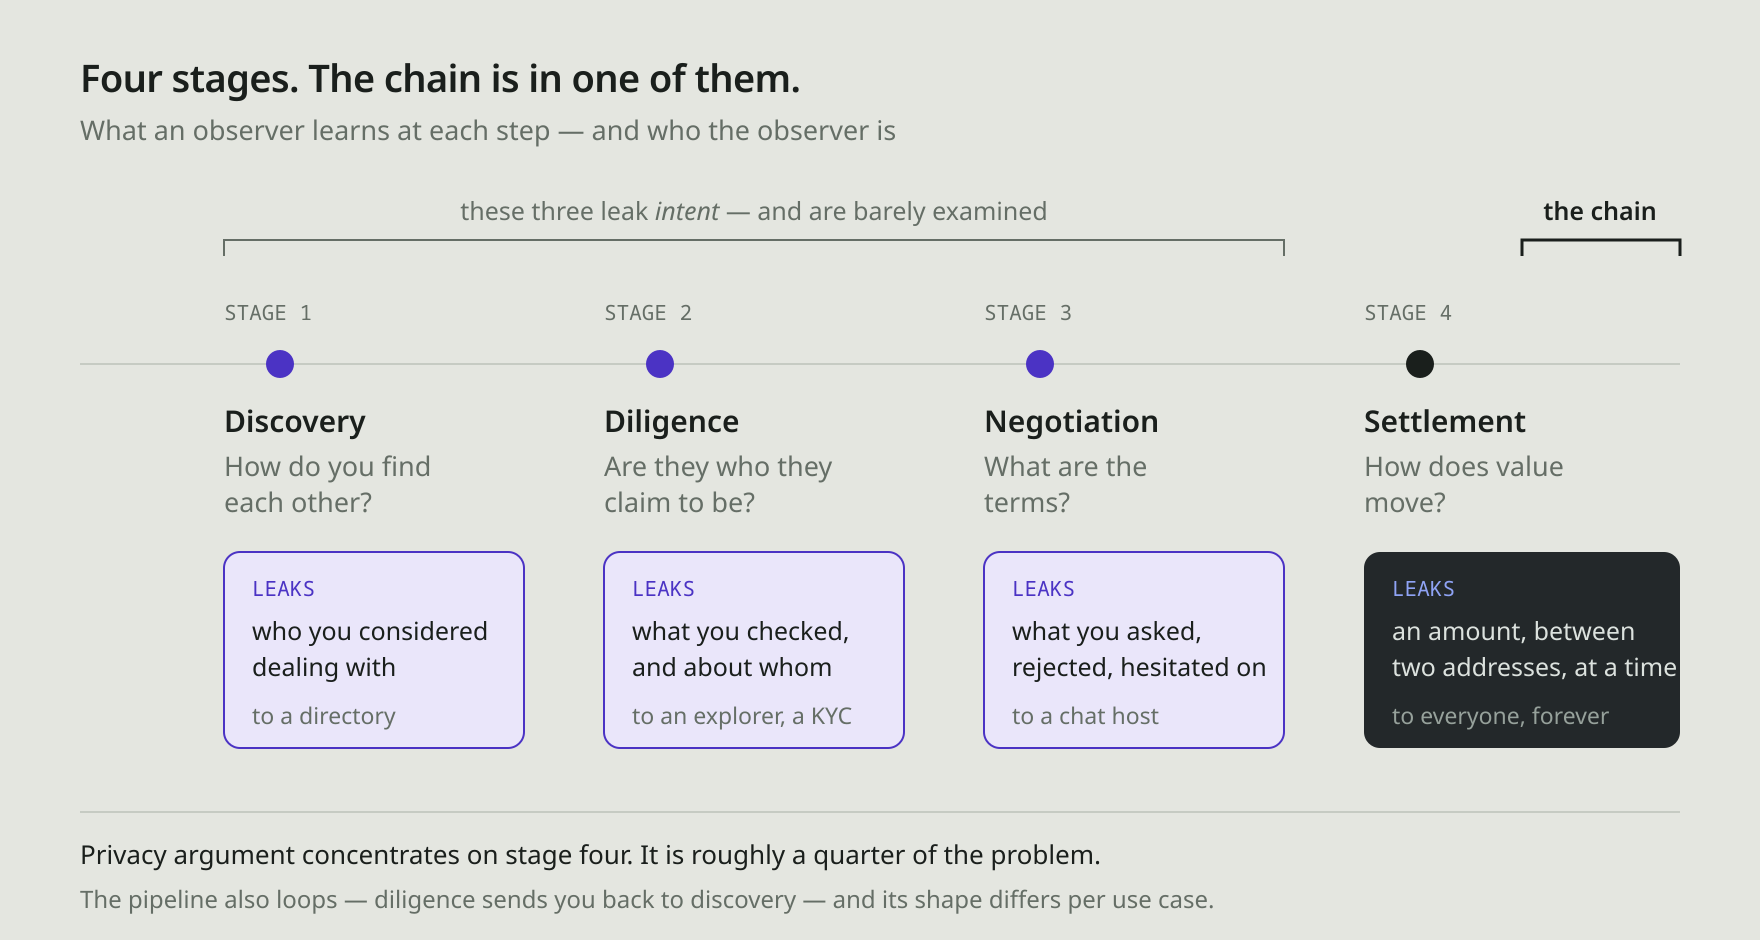
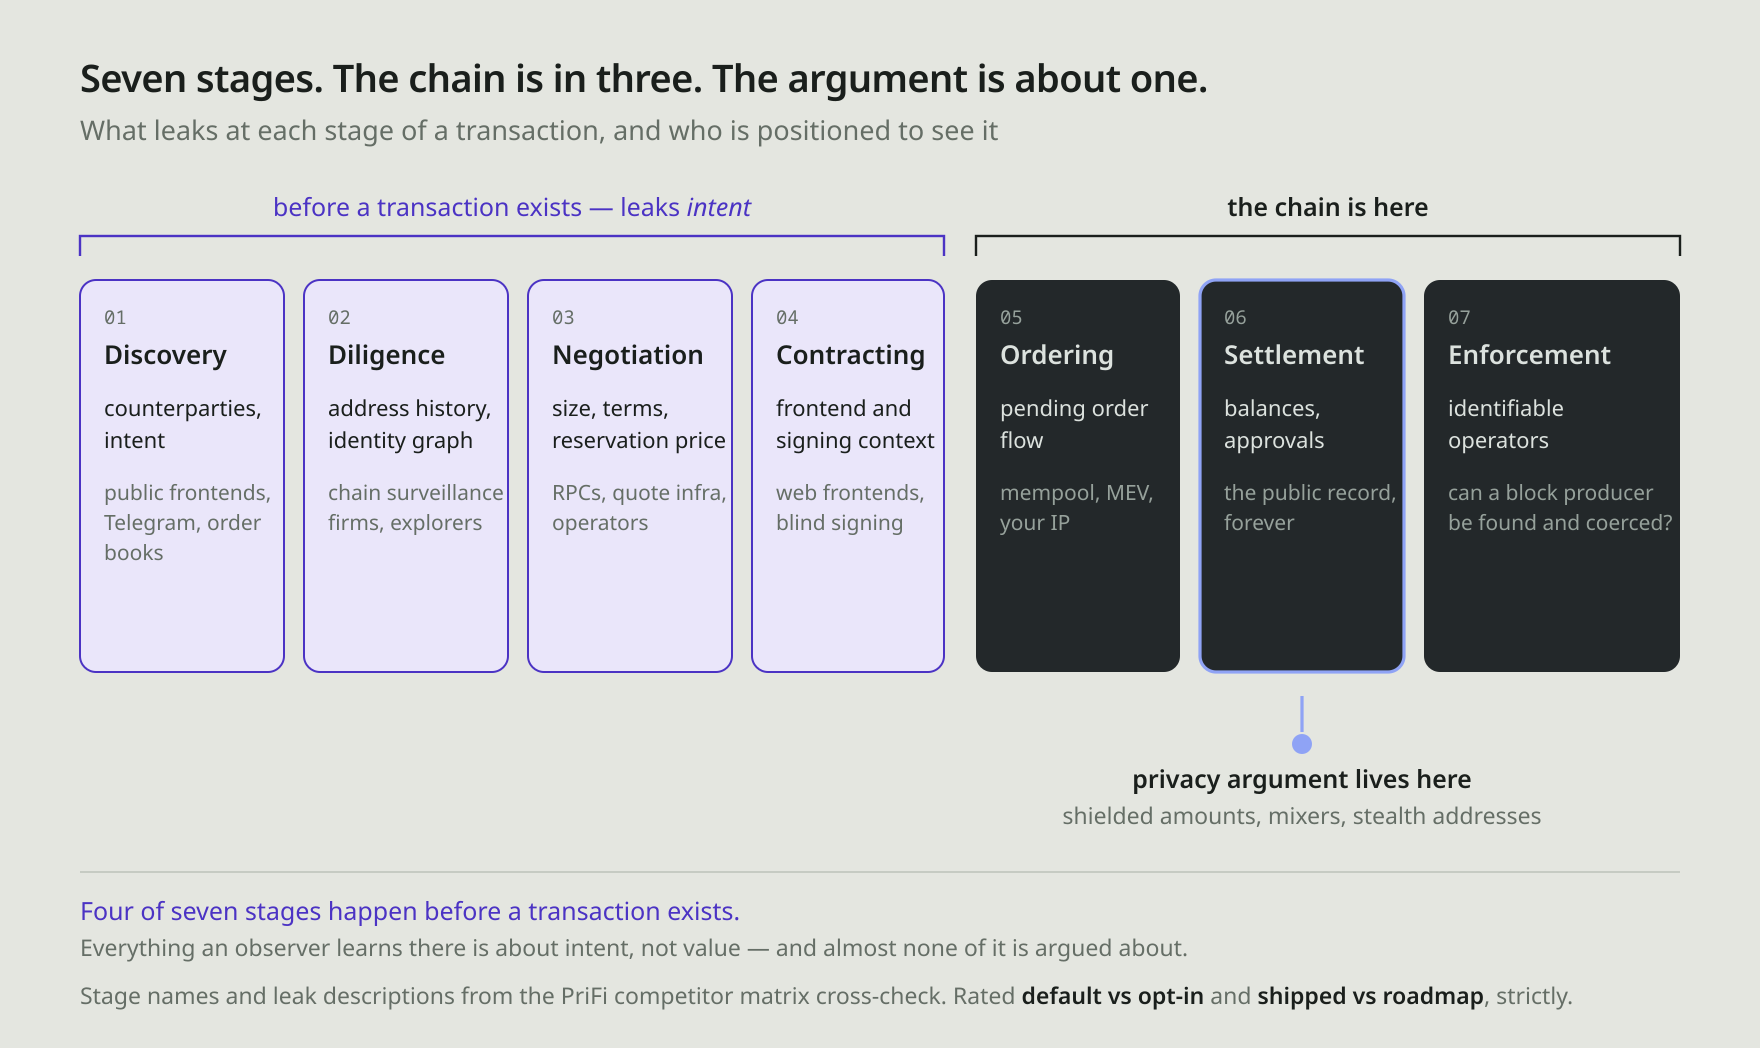
Adopt the published seven-stage pipeline, and score ourselves on it
The four-stage framing (discovery / diligence / negotiation / settlement) was
mine to invent and did not need inventing — the seven-stage version is already
published in the PriFi competitor matrix cross-check, with a leak description
per stage and a scoring scale. A post that introduced a second taxonomy for
the same thing would be worse than useless.

Stages now: Discovery, Diligence, Negotiation, Contracting, Ordering,
Settlement, Enforcement, with the leak descriptions quoted verbatim and the
three unfamiliar ones defined.

The correction makes the thesis stronger rather than weaker. "The blockchain
touches stage four, that's it" was wrong: the chain is present in three stages
— ordering, settlement, enforcement. But privacy argument concentrates on
roughly *one* of them, settlement. Ordering gets partial attention and is
usually framed as an economic problem; enforcement gets almost none despite
deciding whether anyone can be compelled. So the claim becomes: the argument
covers about one stage in seven, and it is not the one that leaks most about
you. Four of seven happen before a transaction exists at all.

  fig1  rebuilt for seven stages, splitting the four that precede a
        transaction from the three the chain is in, and marking the one the
        argument actually lives in
  fig5  new — Muster scored on that same matrix

The self-assessment is the part that needs a second opinion before it goes
[…]

diff --git a/docs/posts/01-discovery-supporting-material.md b/docs/posts/01-discovery-supporting-material.md
@@ -14,35 +14,90 @@ Rule inherited from `docs/00-vision.md`: never publish an `inferred` row as fact
 
 ---
 
-## 1. The thesis, as separable claims
+## 1. The pipeline — use the seven-stage version
 
-Stated so each can be attacked on its own.
+**This supersedes the four-stage framing (discovery / diligence / negotiation / settlement) in the earlier draft.** The seven-stage version is already published in the PriFi competitor matrix cross-check, so the post should be consistent with it rather than inventing a second taxonomy.
+
+Stage names and leak descriptions, verbatim from that document:
+
+| Stage | Leak being rated |
+|---|---|
+| **Discovery** | counterparties, intent: is there private counterparty/liquidity discovery, or Telegram/public frontends? |
+| **Diligence** | address history, identity graph: can surveillance firms graph the chain? |
+| **Negotiation** | size, terms, reservation price: pre-trade leakage to RPCs, quote infra, operators |
+| **Contracting** | frontend and signing context: verifiable/local-first frontends, signing leaks |
+| **Ordering** | pending order flow: mempool visibility, MEV, network-origin (IP) protection |
+| **Settlement** | balances, approvals, positions: on-chain privacy, default vs opt-in |
+| **Enforcement** | identifiable operators: can block producers be identified and coerced? |
+
+Definitions worth restating in the post, because three of these are unfamiliar:
+
+- **Contracting** — whether signing and execution context stays local and verifiable, or a web frontend introduces ambient leakage.
+- **Ordering** — whether mempool contents, timing and MEV surface to validators, miners or network observers *before* confirmation.
+- **Enforcement** — whether block producers are anonymous (censorship-resistant) or identifiable (coercible). Anonymous randomised selection is the standard; a permissioned sequencer set is not.
+
+**Source:** <https://logos-co.github.io/assembly/resources/prifi-deck-competitor-matrix-crosscheck>
+
+### What the extra stages do to the thesis
+
+The four-stage version said *"the blockchain touches stage four, that's it."* Under seven stages that is wrong, and the corrected version is **stronger**:
+
+- The chain is involved in **three** stages — Ordering, Settlement, Enforcement.
+- Privacy discourse concentrates on **one** of them: Settlement. Shielded amounts, mixers, stealth addresses.
+- **Ordering** gets partial attention (MEV, private mempools) and is mostly framed as an economic problem rather than a privacy one.
+- **Enforcement** gets almost none, despite deciding whether anyone *can* be compelled.
+- **Discovery, Diligence, Negotiation and Contracting** — four of seven, everything before a transaction exists — leak intent and are barely examined at all.
+
+So: not "one of four" but **"privacy argument covers roughly one stage in seven, and it isn't the one that leaks the most about you."**
+
+### Claims, so each can be attacked separately
 
 | # | Claim | Support |
 |---|---|---|
-| T1 | Every inter-personal transaction moves through discovery → diligence → negotiation → settlement | Framing. Not empirical — §10 Q1 invites it being broken |
-| T2 | The blockchain touches only stage four | Definitional, and the reason the framing earns its place |
-| T3 | Stages 1–3 leak *intent*, to more parties than stage 4 leaks *value* | Argument, illustrated by the discovery case below |
-| T4 | Those three stages run on infrastructure that keeps records, largely unexamined | Argument |
+| T1 | An inter-personal transaction moves through these seven stages | Framing, published. §10 Q1 invites it being broken |
+| T2 | The chain is present in only three of them, and privacy discourse in about one | Definitional plus observation |
+| T3 | Stages 1–4 leak *intent*, to more parties than stage 6 leaks *value* | Argument, illustrated by the discovery case below |
+| T4 | The operators in the middle — RPCs, quote infra, frontends, sequencers — are the least examined and often the most sighted | The matrix's own central finding |
 | T5 | Leaks divide into: chosen by you, chosen by the stack for you, inherited by everyone | Framing, and the most reusable idea in the post |
 
-The sharpest form of T3: from settlement an observer learns *an amount moved between two addresses at a time*. From the other three they learn **who you considered dealing with, what you checked, what you asked for, what you settled on, what you rejected, and when you hesitated.**
-
----
-
-## 2. The pipeline, per stage
-
-| Stage | The question | Conventional infrastructure | What it retains |
-|---|---|---|---|
-| 1. Discovery | How do you find them? | Marketplace, directory, order book, platform handle | The search, the edge in a social graph |
-| 2. Diligence | Are they who they claim, with what they claim? | Profile, reputation score, KYC provider, explorer lookup | That you checked, and whom |
-| 3. Negotiation | What are the terms? | Chat, email, comments, forms | The whole thread, indefinitely, and compellably |
-| 4. Settlement | How does value move, and when is it final? | The chain | Amount, addresses, timestamp — permanently, publicly |
+The sharpest form of T3: from settlement an observer learns *an amount moved between two addresses at a time*. From the earlier stages they learn **who you considered dealing with, what you checked, what you asked for, what you settled on, what you rejected, and when you hesitated.**
 
 **Two caveats to state early, both true and both easy to omit:**
 
 - The pipeline **loops**. Diligence sends you back to discovery; negotiation surfaces a fact needing checking.
 - The pipeline is **not universal in shape**. Discovery for "send a friend £20" is a different problem from discovery on a DEX, an NFT purchase, or a hire. This is why the series retells it per use case.
+
+---
+
+## 2. The scoring scheme, and Muster scored by it
+
+The matrix rates each stage on three levels. Reusing it here rather than inventing a scale keeps the post consistent with the published work — and, more usefully, lets Muster be held to the standard its author is applying to everyone else.
+
+| Mark | Meaning |
+|---|---|
+| ● **Closed** | leak closed by default architecture |
+| ◑ **Partial** | partially mitigated or opt-in |
+| ○ **Leaks** | essentially unaddressed |
+
+The criterion the matrix applies, and the reason it is worth applying to ourselves: **default vs opt-in, and shipped vs roadmap, strictly — "because an adversarial investor will."**
+
+### Muster as it stands today — draft self-assessment
+
+**This is the most exposed thing in the post and needs your judgement before it goes anywhere.** It is scored strictly against the *demo as it runs*, not against the specification. Two cells are deliberately left unscored rather than guessed.
+
+| Stage | Mark | Why, strictly |
+|---|---|---|
+| Discovery | ◑ | No directory, no lookup, no server that learns the edge — that part is closed by architecture. But the introduction is unauthenticated, and a relay still sees subscription shape. **[measured]** |
+| Diligence | ○ | Not addressed at all. There is no diligence surface in the build; the next post is about what one could look like. Scoring this ● because "we don't do lookups" would be exactly the overclaim the matrix criticises |
+| Negotiation | ● | The strongest cell. Terms are agreed inside an end-to-end encrypted room with **no coordination service anywhere in it** — no RPC, no quote infra, no operator sees the proposal, the approvals or the timing. Closed by default, not opt-in **[measured]** |
+| Contracting | ◑ | Local-first by construction: a native client, no web frontend, no ambient leakage. But **the signing context is not verifiable** — the client does not re-derive what it signs (F-4/FS-6 are specified and unbuilt), so a user reviews an amount rather than a payload |
+| Ordering | *not assessed* | Needs the zone's own answer on mempool visibility and sequencer behaviour. What is known: no network-origin protection (no mixnet), and the zone learns that a transfer happened and when. Do not score this without checking |
+| Settlement | ◑ | Shielded on both ends by default, which is the ● case — but the **recipient is not credited at the address they published**, and the build carries a workaround. A stage that needs a workaround to complete is not closed |
+| Enforcement | *not assessed* | The testnet runs against a single named sequencer, which by the matrix's own standard ("anonymous randomised selection is the standard, not permissioned sequencer sets") points at ○ — but confirm the production model before printing it |
+
+**Why publish this.** The matrix's stated failure mode is "the same standard applied to one project and not its neighbour". A post that scores everyone else and exempts its own prototype would be the thing it is complaining about. Two ○/unscored cells and a ◑ on settlement is a more credible document than a row of ●.
+
+**The honest headline:** on its own matrix, this build closes **one** stage of seven by default. That is a defensible result for a two-week prototype whose thesis is that the middle of the pipeline is neglected — it closes the neglected middle and leaves the well-trodden end open.
 
 ---
 
@@ -157,7 +212,8 @@ Built and in `docs/posts/figures/`. Each is SVG, in the prototype's palette, siz
 
 | File | Shows | Best used for |
 |---|---|---|
-| `fig1-pipeline.svg` | The four stages, what each leaks, and the chain touching only the fourth | The thesis. Probably the post's opening figure |
+| `fig1-pipeline.svg` | All seven stages with their leak descriptions, the four that precede a transaction, the three the chain is in, and the one the argument concentrates on | The thesis. The post's opening figure |
+| `fig5-muster-self-assessment.svg` | Muster scored ●/◑/○ on its own seven-stage matrix, two cells left unassessed | The credibility move — see §2. Pair it with fig1 |
 | `fig2-discovery-comparison.svg` | Introduction with a directory vs without — who learns the edge | The discovery argument, side by side |
 | `fig3-what-a-relay-sees.svg` | Content vs metadata across the journey: what is hidden, what is not | The FS-9 honesty point made concrete |
 | `fig4-cost-of-privacy.svg` | Proving time against human-interaction thresholds | "Not an interaction, a job" — for the settlement post, optional teaser here |
@@ -239,3 +295,4 @@ Lifted verbatim so they are not lost in the rewrite. Use, cut or rework freely.
 | Messaging contract | `logos-co/logos-chat-module` `rust-lib/chat_module.lidl` |
 | Wallet contract, incl. the label system | `logos-blockchain/logos-execution-zone-module` `src/lez_core_module.h` |
 | Platform gaps with upstream issue numbers | `logos-co/eth-lez-atomic-swaps` `delivery-dogfooding.md` |
+| **The seven-stage pipeline, its leak descriptions and the ●/◑/○ scale** | [PriFi deck competitor matrix cross-check](https://logos-co.github.io/assembly/resources/prifi-deck-competitor-matrix-crosscheck) — already published, so the post should match it rather than introduce a second taxonomy |
